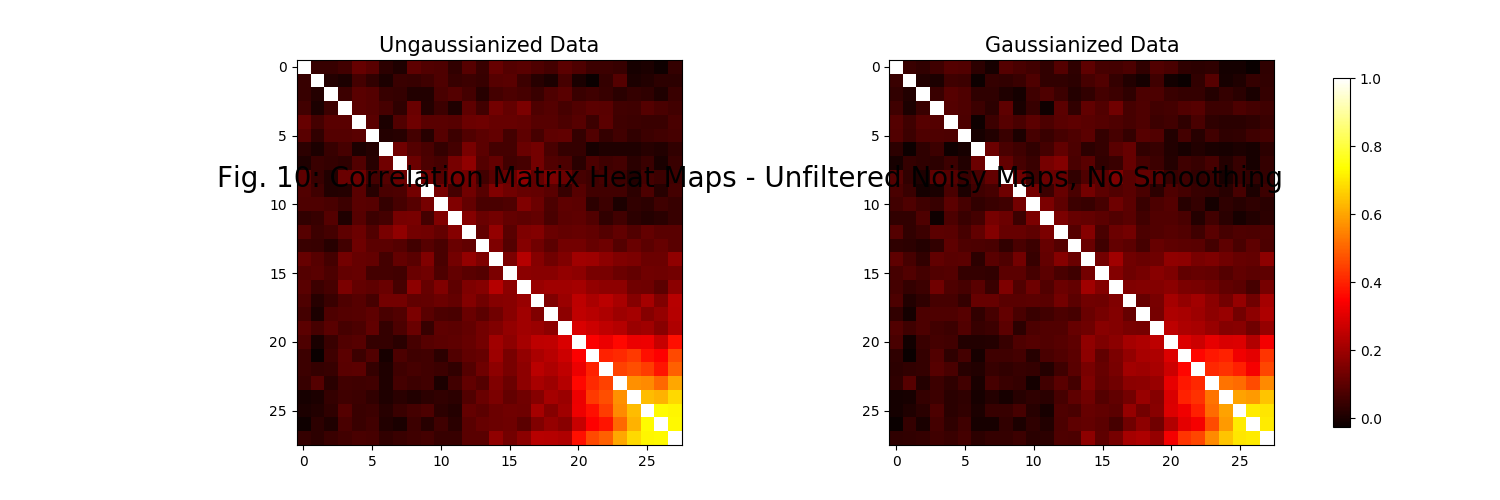
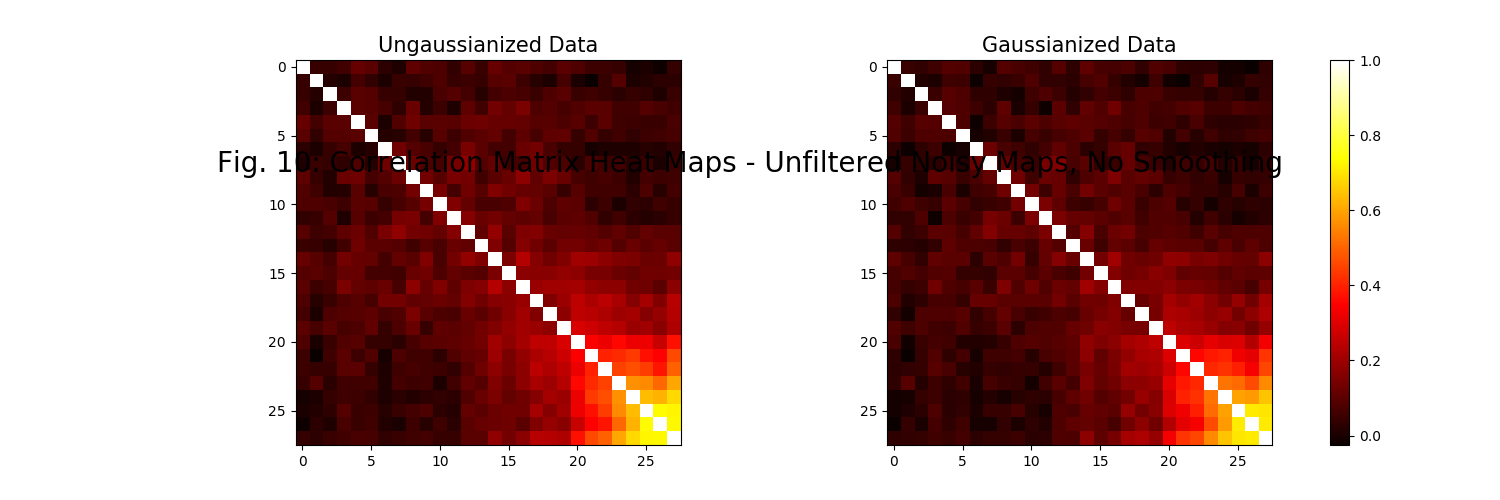
playing around with corrmat_allnoisy

diff --git a/Parallel Gaussianization/Noisy Maps/gauss_SNR_nois.py b/Parallel Gaussianization/Noisy Maps/gauss_SNR_nois.py
@@ -174,7 +174,7 @@ correlgauss = corr_mat(covargauss)
 fig2, (ax1, ax2) = plt.subplots(nrows=1, ncols=2, figsize = (15, 5))
 axlist = [ax1, ax2]
 
-fig2.suptitle("Fig. 10: Correlation Matrix Heat Maps - Unfiltered Noisy Maps, No Smoothing", y = 0.67, fontsize = "20")
+fig2.suptitle("Fig. 10: Correlation Matrix Heat Maps - Unfiltered Noisy Maps, No Smoothing", y = 0.7, fontsize = "20")
 first = ax1.imshow(np.array(correl), cmap = 'hot', vmin = -0.025, vmax = 1.0)
 ax1.set_title('Ungaussianized Data', fontsize = "15")
 
@@ -182,7 +182,7 @@ ax2.imshow(np.array(correlgauss), cmap = 'hot', vmin = -0.025, vmax = 1.0)
 ax2.set_title('Gaussianized Data', fontsize = "15")
 
 
-fig2.colorbar(first, ax=axlist, fraction=0.015)
+fig2.colorbar(first, ax=axlist, fraction=0.017)
 fig2.savefig("corrmat_allnoisy.png")
 
 
